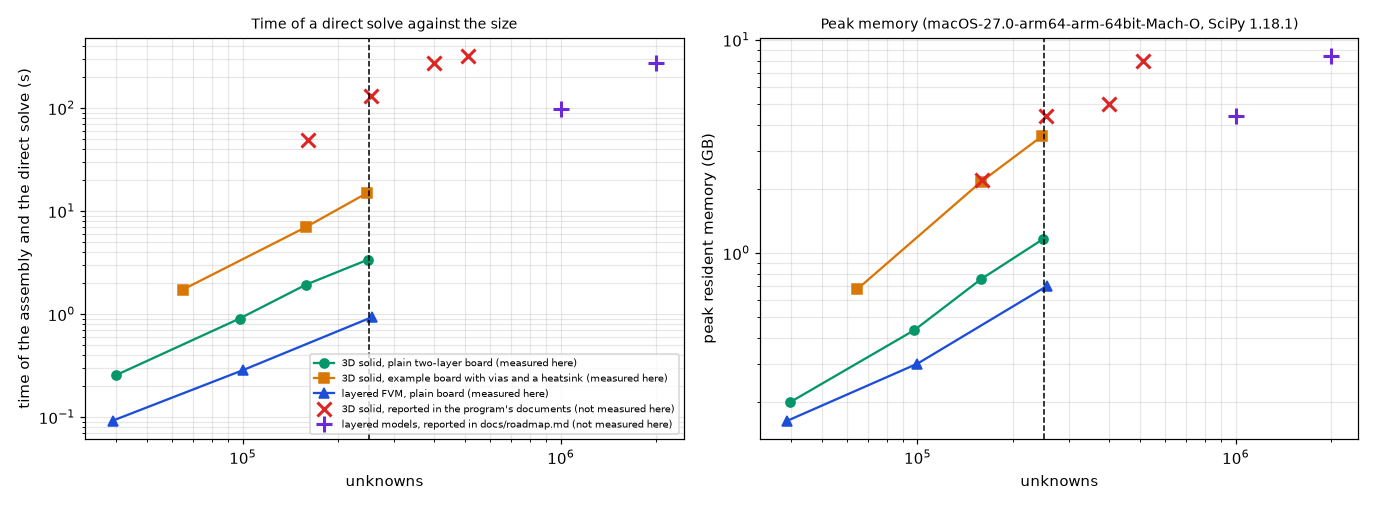
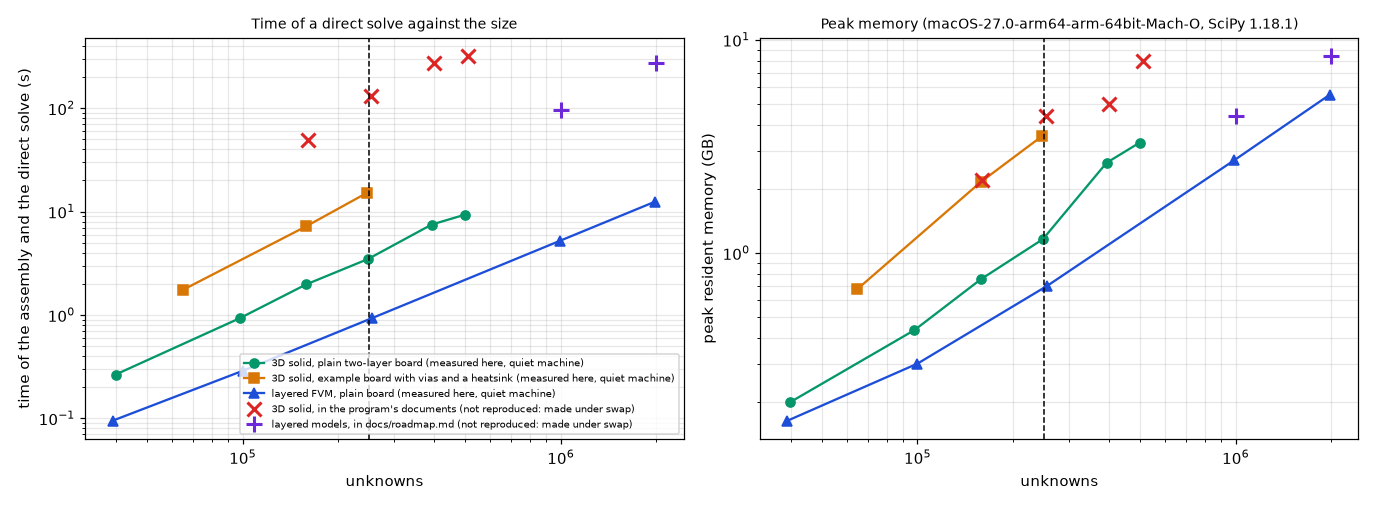
Re-run the solve cost on a quiet machine and correct the times
The times and memory quoted by the program documents (276 s at 393 000 unknowns, 97 s and 273 s at 1 and 2 million) are 20 to 40 times longer than measured after a restart. Figure 9 now has 14 measured points; the table for the project documents is in docs/for-the-project-documents.md. Small-pad and FEM hand checks reproduce to the digit.

Claude-Session: https://claude.ai/code/session_01NsfnySABtTnfYfYFzLoyJj

diff --git a/research/solid3d-verification/scripts/make_figures.py b/research/solid3d-verification/scripts/make_figures.py
@@ -249,7 +249,7 @@ def fig_one_layer_independent():
     plt.close(fig)
 
 
-# Larger sizes that the program's documents report and this folder did not measure (CHANGELOG.md "A 3D-solid run that never ended", docs/versions.md, docs/roadmap.md):
+# Sizes that the program's documents report (measured under memory pressure, NOT reproduced on the quiet machine: study_solve_cost.py now measures the same sizes) (CHANGELOG.md "A 3D-solid run that never ended", docs/versions.md, docs/roadmap.md):
 # 3D solid: (unknowns, seconds, GB); layered models: (unknowns, seconds, GB). The 400 000 unknowns point of docs/versions.md is 276 s and "5 GB".
 REPORTED_3D = [(160_000, 49.0, 2.2), (254_000, 130.0, 4.4), (400_000, 276.0, 5.0), (512_000, 320.0, 8.0)]
 REPORTED_LAYERED = [(1_000_000, 97.0, 4.4), (2_000_000, 273.0, 8.4)]
@@ -264,15 +264,15 @@ def fig_cost():
     data = json.loads((HERE.parent / "out" / "solve_cost.json").read_text())
     rows = data["rows"]
     fig, axs = plt.subplots(1, 2, figsize=(12.5, 4.6))
-    styles = (("solid3d", "#059669", "o", "3D solid, plain two-layer board (measured here)"), ("example", "#d97706", "s", "3D solid, example board with vias and a heatsink (measured here)"),
-              ("fvm", "#1d4ed8", "^", "layered FVM, plain board (measured here)"))
+    styles = (("solid3d", "#059669", "o", "3D solid, plain two-layer board (measured here, quiet machine)"), ("example", "#d97706", "s", "3D solid, example board with vias and a heatsink (measured here, quiet machine)"),
+              ("fvm", "#1d4ed8", "^", "layered FVM, plain board (measured here, quiet machine)"))
     for k, (ax, key, unit) in enumerate(((axs[0], "seconds", "time of the assembly and the direct solve (s)"), (axs[1], "peak_gb", "peak resident memory (GB)"))):
         for kind, col, mk, lab in styles:
             pts = sorted((r["unknowns"], r[key]) for r in rows if r["model"] == kind)
             ax.plot([p[0] for p in pts], [p[1] for p in pts], marker=mk, color=col, label=lab)
         idx = 1 if key == "seconds" else 2
-        ax.plot([p[0] for p in REPORTED_3D], [p[idx] for p in REPORTED_3D], "x", color="#dc2626", ms=9, mew=2, label="3D solid, reported in the program's documents (not measured here)")
-        ax.plot([p[0] for p in REPORTED_LAYERED], [p[idx] for p in REPORTED_LAYERED], "+", color="#6d28d9", ms=11, mew=2, label="layered models, reported in docs/roadmap.md (not measured here)")
+        ax.plot([p[0] for p in REPORTED_3D], [p[idx] for p in REPORTED_3D], "x", color="#dc2626", ms=9, mew=2, label="3D solid, in the program's documents (not reproduced: made under swap)")
+        ax.plot([p[0] for p in REPORTED_LAYERED], [p[idx] for p in REPORTED_LAYERED], "+", color="#6d28d9", ms=11, mew=2, label="layered models, in docs/roadmap.md (not reproduced: made under swap)")
         ax.axvline(250_000, color="k", ls="--", lw=1)
         ax.text(255_000, ax.get_ylim()[0] * 1.5 if ax.get_yscale() == "log" else 0, "limit of the 3D solid\n250 000 unknowns", fontsize=7, va="bottom")
         ax.set_xscale("log")

diff --git a/research/solid3d-verification/scripts/study_solve_cost.py b/research/solid3d-verification/scripts/study_solve_cost.py
@@ -4,10 +4,9 @@
 
 @details A 100 x 80 mm two-layer board with full copper on both layers and one 2 W part, and the program's example board, are solved at several cell sizes. Every size runs in its own child process, so that the peak
          resident memory (`resource.getrusage`, kilobytes on Linux and bytes on macOS) belongs to that run alone. Time includes the assembly of the model and the direct sparse solve
-         (the SuperLU solve that the application uses). Sizes stay under 300 000 unknowns on purpose (the 3D solid refuses more in the application). The result is written to
-         `out/solve_cost.json` (git-ignored) with the machine and the library versions, and read by `make_figures.py` for figure 9. The larger sizes quoted in the README (400 000 to 1 million
-         unknowns) are NOT measured here; they come from the program's CHANGELOG and docs/roadmap.md.
-         Usage: .venv/bin/python research/solid3d-verification/scripts/study_solve_cost.py (from the repository root; about 5 minutes and up to 5 GB; run nothing else heavy at the same time).
+         (the SuperLU solve that the application uses). The 3D solid runs inside `solid3d.size_limit` so that sizes above the 250 000 unknowns of the application can be timed. The result is written to
+         `out/solve_cost.json` (git-ignored) with the machine and the library versions, and read by `make_figures.py` for figure 9. The last four cases reproduce the larger sizes quoted by the program documents (3D solid 400 000 and 512 000 unknowns, layered FVM 1 and 2 million).
+         Usage: .venv/bin/python research/solid3d-verification/scripts/study_solve_cost.py (from the repository root; about 25 minutes and up to 9 GB; run nothing else heavy at the same time).
 """
 
 import json
@@ -25,7 +24,9 @@ sys.path.insert(0, str(ROOT))
 
 # "solid3d" and "fvm": the plain board of board(); "example": the program's example board (4 layers, partial top copper, nine vias, a heatsink), 3D solid
 CASES = [("solid3d", 1.10), ("solid3d", 0.70), ("solid3d", 0.55), ("solid3d", 0.44), ("fvm", 0.64), ("fvm", 0.40), ("fvm", 0.25),
-         ("example", 1.4), ("example", 0.9), ("example", 0.72)]
+         ("example", 1.4), ("example", 0.9), ("example", 0.72),
+         # the sizes that the program documents quote: 3D solid about 400 000 and 512 000 unknowns, layered FVM about 1 and 2 million
+         ("solid3d", 0.35), ("solid3d", 0.31), ("fvm", 0.127), ("fvm", 0.09)]
 
 
 def board():

diff --git a/research/solid3d-verification/README.md b/research/solid3d-verification/README.md
@@ -20,7 +20,7 @@ Status: **implemented** in the program (see the program's `docs/versions.md` and
 
 ![Time and memory of a direct solve against the number of unknowns](figures/fig_09_solve_cost.png)
 
-*Figure 9 (`figures/fig_09_solve_cost.png`): the time (assembly and direct sparse solve) and the peak memory of a steady solve against the number of unknowns, with the limit of the 3D solid (250 000 unknowns, `solid3d.MAX_CELLS`). Lines: measured by `scripts/study_solve_cost.py` on one machine (macOS arm64, 16 GB, Python 3.13.5, SciPy 1.18.1; each size in its own process; see `out/solve_cost.json`): a plain 100 x 80 mm two-layer board in the 3D solid (40 000 to 248 000 unknowns, 0.3 to 3.4 s, 0.20 to 1.2 GB), the program's example board in the 3D solid (65 000 to 247 000 unknowns, 1.7 to 15 s, 0.68 to 3.5 GB) and the layered FVM on the plain board (39 000 to 256 000 unknowns, 0.1 to 0.9 s, 0.16 to 0.70 GB). Markers: sizes reported in the program's documents and **not measured here** (3D solid: 160 000 unknowns 49 s and 2.2 GB, 254 000 130 s and 4.4 GB, 400 000 276 s and 5 GB, 512 000 320 s and 8 GB, from `CHANGELOG.md` and `docs/versions.md`; layered models: 1 million 97 s and 4.4 GB, 2 million 273 s and 8.4 GB, from `docs/roadmap.md`). The memory of the example board agrees with the reported figure at 160 000 unknowns (2.15 against 2.2 GB) and is lower at 250 000 (3.5 against 4.4 GB at 254 000); the times do **not** agree: the example board takes 7 s at 158 000 unknowns and 15 s at 247 000 here, against 49 s and 130 s reported. The cause was not found (the reported runs may have been made under memory pressure or with the computed-h loop that repeats the solve three to six times; neither was tested), so the times of the documents are an upper reading of what this machine measured. The unknown count depends on the board (a plain board has 6 slabs, the example board 16), and the time on the structure of the matrix as well, so the curves are not a prediction for another board. The values of the layered models above 300 000 unknowns, and the 40 000 and 252 000 unknowns points that the review quoted from its own run, are not in the documents and were not reproduced.*
+*Figure 9 (`figures/fig_09_solve_cost.png`): the time (assembly and direct sparse solve) and the peak memory of a steady solve against the number of unknowns, with the limit of the 3D solid (250 000 unknowns, `solid3d.MAX_CELLS`). Lines: measured by `scripts/study_solve_cost.py` on a machine just restarted with nothing else running (macOS arm64, 10 cores, 16 GB, Python 3.13.5, SciPy 1.18.1; each size in its own process, the 3D solid inside `solid3d.size_limit`; `out/solve_cost.json`): a plain 100 x 80 mm two-layer board in the 3D solid (40 000 to 500 000 unknowns, 0.3 to 9.3 s, 0.20 to 3.3 GB), the program's example board in the 3D solid (65 000 to 247 000 unknowns, 1.7 to 15 s, 0.68 to 3.5 GB) and the layered FVM on the plain board (39 000 to 1 975 000 unknowns, 0.1 to 12.4 s, 0.16 to 5.5 GB). Markers: the sizes that the program's documents report (3D solid: 160 000 unknowns 49 s and 2.2 GB, 254 000 130 s and 4.4 GB, 400 000 276 s and 5 GB, 512 000 320 s and 8 GB, from `CHANGELOG.md` and `docs/versions.md`; layered models: 1 million 97 s and 4.4 GB, 2 million 273 s and 8.4 GB, from `docs/roadmap.md`). **They are not reproduced**: at the same sizes the quiet machine gives 3D solid 393 000 unknowns 7.5 s and 2.65 GB, 500 000 unknowns 9.3 s and 3.3 GB, layered 992 000 unknowns 5.2 s and 2.7 GB, 1 975 000 unknowns 12.4 s and 5.5 GB (the times of the documents are 20 to 40 times longer and the memory up to 2.4 times larger; they were measured while the machine was swapping, as `ROADMAP.md` records). The peak memory of the example board agrees with the reported figure at 160 000 unknowns (2.15 against 2.2 GB) and is lower at 250 000 (3.5 against 4.4 GB at 254 000); its times, 7 s at 158 000 and 15 s at 247 000 unknowns, are also far below 49 s and 130 s. The unknown count depends on the board (a plain board has 6 slabs, the example board 16), and the time on the structure of the matrix as well, so the curves are not a prediction for another board; the example board at 500 000 unknowns (above the application's limit) was not run, so the limit `MAX_CELLS = 250 000` rests on the old numbers and is for the maintainer to reconsider with these.*
 
 ## 2. Findings in short
 
@@ -44,7 +44,7 @@ Status: **implemented** in the program (see the program's `docs/versions.md` and
 | `scripts/study_spreading_axisymmetric.py` | The axisymmetric finite-volume solver of the spreading resistance (third independent check of Yovanovich's table); writes `out/spreading.json` (git-ignored). |
 | `scripts/study_one_layer_board.py` | A one-layer board in the five models and the 3D solid without its laminate (part 1), and every model against the independent solver before and after the laminate nodes (part 2; about 2 minutes). |
 | `lib/layered3d.py` | The independent 3D finite-volume solver (a copy of `research/effective-conductivity/lib/layered3d.py` on the research branch). |
-| `scripts/study_solve_cost.py` | Time and peak memory of a direct solve of the 3D solid and the layered FVM at 40 000 to 256 000 unknowns, each size in its own process (about 1 minute); writes `out/solve_cost.json` for figure 9. |
+| `scripts/study_solve_cost.py` | Time and peak memory of a direct solve of the 3D solid and the layered FVM at 40 000 to 2 million unknowns, each size in its own process (about 1 minute on a quiet machine); writes `out/solve_cost.json` for figure 9. |
 | `scripts/make_figures.py` | Draws the data figures 1 to 3, 5, 6 and 7 (and 9 with `make_figures.py cost`, from `out/solve_cost.json`) (needs scikit-fem for the third and the output of the axisymmetric study for the sixth; re-runs `study_one_layer_board.py` for the fifth unless `--reuse`; about 4 minutes). |
 | `scripts/make_diagrams.py` | Draws the schematic diagram and the illustration (figures 4 and 8; no data, no program; uses `research/diagram_kit.py`). |
 | `docs/for-the-project-documents.md` | The corrections the review found for `docs/validation.md` (sections 3, 3.1, 16, 20), to apply on a branch off `develop`. |
@@ -265,5 +265,6 @@ Every study of the folder was re-run on the program of `develop` at `0ea5f07` (m
 * Read: Yovanovich's Table 3 values were taken from the published table as recorded in the script (the paper itself was not re-read; its title, "Thermal resistances of circular source on finite circular cylinder with side and end cooling", is quoted from memory). The values are confirmed by the exact Bessel series computed here (section 4.1). Not verified: no measurement of a physical board.
 * Reproduced: the axisymmetric solver was written and run here (section 4.3); every table of this README was re-run in the review (section 7).
 * Not re-checked in the review: the scenario table of `docs/validation.md` section 2 quoted in 4.2.1 (printed by `research/models-comparison/scripts/validation_study.py`, reviewed with that folder); the FEM element-size checks of 4.2 and the example board at 0.5 mm were re-run by hand in the review and are now printed by `scripts/study_fem_hand_checks.py` (reproduced: 90.63 to 90.57 °C on halving the element size, 0.0003 °C for 2 instead of 4 elements per gap, 85.567 and 85.587 °C for the example board).
+* **Re-run in the long-run plan** (a machine just restarted with nothing else running, program at `6eb9adf`): `study_small_pad_convergence.py` (about 7 minutes: every column of 4.2 prints the same digits, including the independent solver equal to the 3D solid in Part 2), `study_fem_hand_checks.py` (about 4 minutes, not 6 or 11: 90.632 and 90.569 °C, -0.0003 °C, 85.567 and 85.587 °C, +0.020) and `study_solve_cost.py` extended to 14 cases (figure 9): the times of the program documents are **not** reproduced, see the caption of figure 9 and `docs/for-the-project-documents.md`.
 * Not implemented: a time simulation of the 3D solid (steady state only); the FEM solid inside the program (it stays an offline cross-check, scikit-fem is not a dependency).
 * One-layer board (4.4): the old behaviour is imitated by a board whose laminate is 1 µm thick, not by running the old code; the independent reference (with patterned copper) is in `research/effective-conductivity/` 4.11 and in `lib/layered3d.py` here.

diff --git a/research/solid3d-verification/docs/for-the-project-documents.md b/research/solid3d-verification/docs/for-the-project-documents.md
@@ -34,3 +34,21 @@ The project documents are not edited on a research branch. These are the changes
 ## `docs/validation.md`, section 20
 
 * "The 3D solid is now 3 % above the layered models with full copper and 13 % with a 20 mm pad" was true between the two corrections; after section 21 the FVM is −0.1 % (full copper) and −3.5 % (20 mm pad) of the 3D solid's rise (FDM −0.1 / −9.5 %, Lumped +1.2 / −10.7 %, Analytic −0.9 / −11.0 %; `study_one_layer_board.py` part 1). Replace "now" with "before the laminate nodes of section 21".
+
+## Times and memory of the solves (`CHANGELOG.md`, `docs/versions.md`, `docs/models.md`, the comment of `pcbthermal/solid3d.py`, `docs/roadmap.md` Next work #1 and #2)
+
+The times quoted there were measured while the machine was swapping and are not reproduced. Measured by `study_solve_cost.py` on a machine just restarted with nothing else running (macOS arm64, 10 cores, 16 GB, Python 3.13.5, SciPy 1.18.1; direct sparse solve, each size in its own process):
+
+| Model | Unknowns | Time (s) | Peak memory (GB) | In the documents |
+| :-- | --: | --: | --: | :-- |
+| 3D solid, plain two-layer board | 158 000 | 2.0 | 0.75 | 49 s, 2.2 GB |
+| 3D solid, plain two-layer board | 248 000 | 3.5 | 1.2 | 130 s, 4.4 GB (254 000) |
+| 3D solid, plain two-layer board | 393 000 | 7.5 | 2.65 | 276 s, 5 GB |
+| 3D solid, plain two-layer board | 500 000 | 9.3 | 3.3 | 320 s, 8 GB (512 000) |
+| 3D solid, example board (16 slabs) | 158 000 / 247 000 | 7.2 / 15.3 | 2.15 / 3.5 | |
+| layered FVM, plain board | 992 000 | 5.2 | 2.7 | 97 s, 4.4 GB |
+| layered FVM, plain board | 1 975 000 | 12.4 | 5.5 | 273 s, 8.4 GB |
+
+* Replace the times and memory in the four documents with these (or remove them), and say that they depend on the machine and on the board (the example board with vias and a heatsink takes about 4 times longer than the plain board of the same size).
+* The limit `MAX_CELLS = 250 000` and the "slow above a million unknowns" note for the layered models were set from the old numbers: reconsider them with the table (the example board at 500 000 unknowns was not measured, so the new limit needs one more run on it).
+* The memory guard of `docs/roadmap.md` Next work #2 can use the measured memory per unknown: about 6.6 KB for the 3D solid on a plain board (3.3 GB at 500 000), 14 KB on the example board (3.5 GB at 247 000), 2.8 KB for the layered FVM (5.5 GB at 1.98 million).
